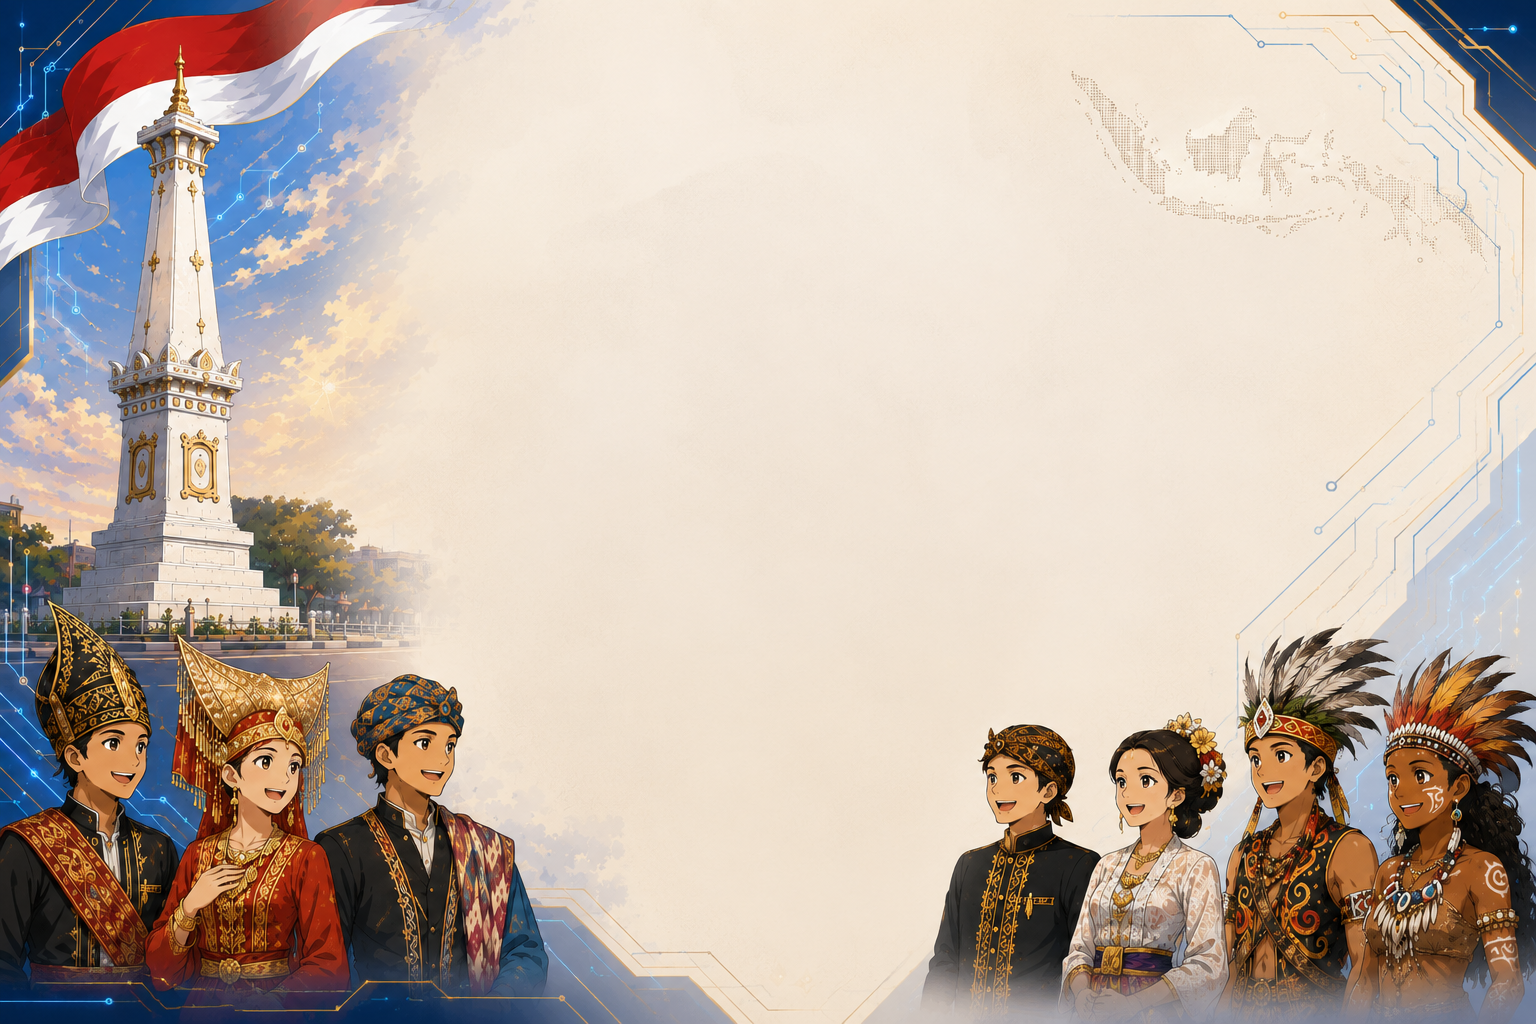
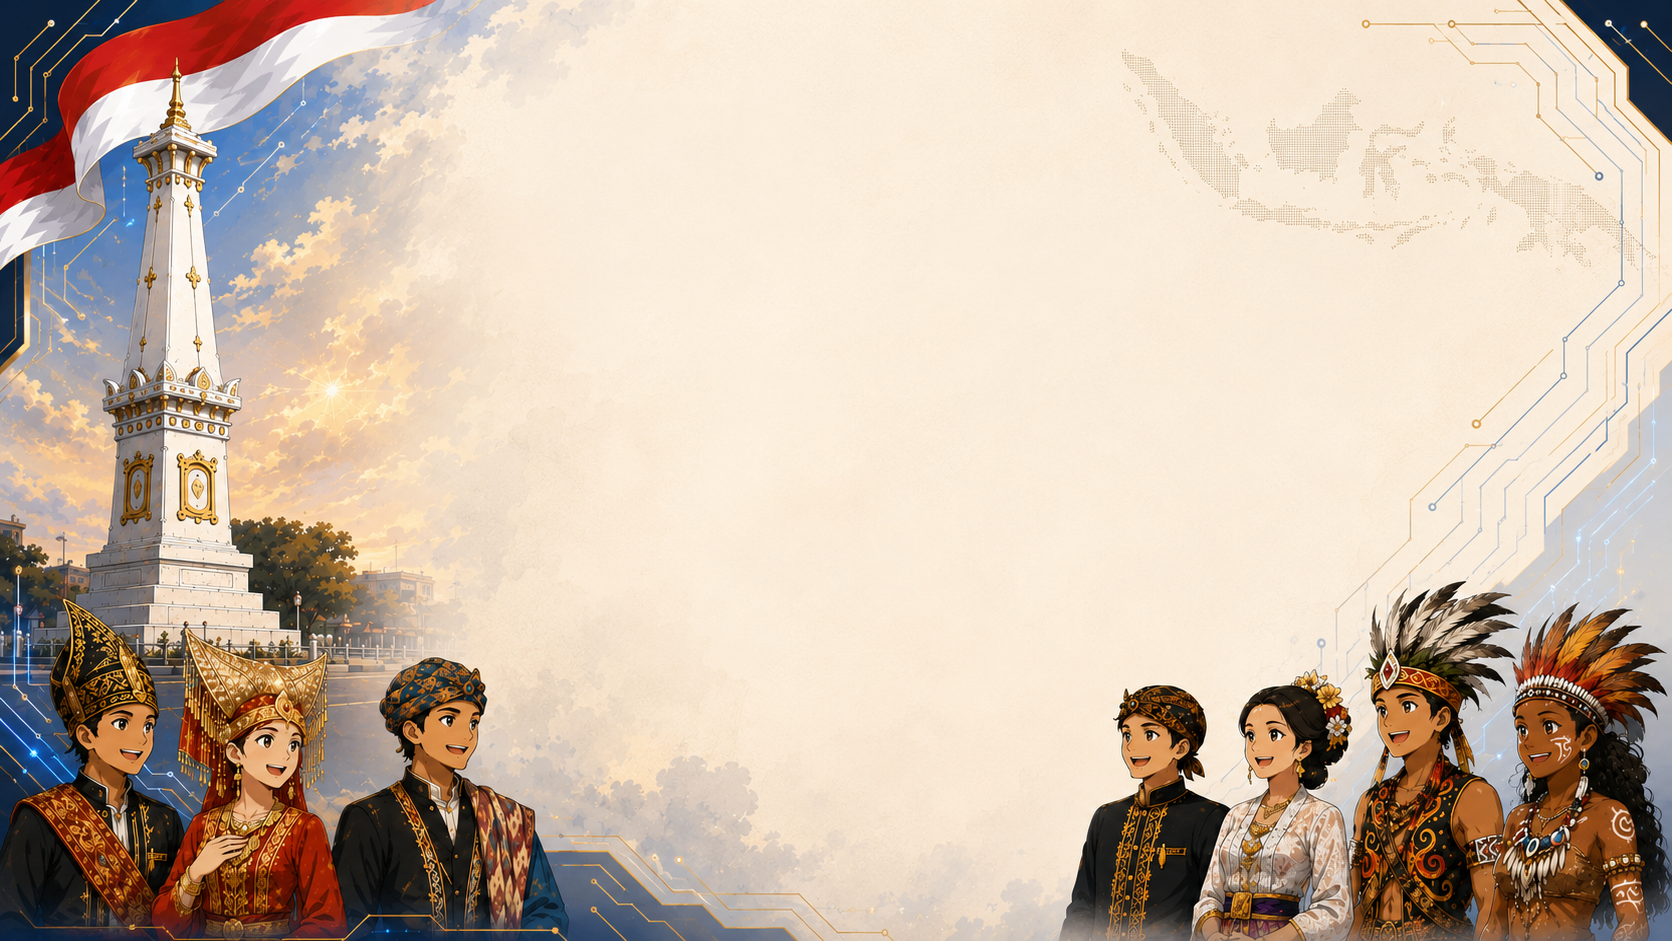
Perbaiki background responsif di ponsel

diff --git a/src/index.css b/src/index.css
@@ -1,3 +1,3 @@
 @import 'tailwindcss';
-.home-hero{min-height:680px;display:grid;place-items:center;background-image:linear-gradient(rgba(250,246,237,.12),rgba(250,246,237,.12)),url('/latar-yogyakarta.png');background-position:center;background-size:cover;background-repeat:no-repeat}.home-hero-content{width:min(700px,100%);margin-top:-30px;padding:2rem;text-align:center;border:1px solid rgba(255,255,255,.66);border-radius:2rem;background:rgba(255,252,245,.72);box-shadow:0 24px 80px rgba(13,44,82,.13);backdrop-filter:blur(7px)}@media(max-width:640px){.home-hero{min-height:720px;background-position:center top}.home-hero-content{margin-top:-60px;padding:1.5rem;background:rgba(255,252,245,.84)}}
+.home-hero{min-height:680px;display:grid;place-items:center;background-color:#faf3e8;background-image:linear-gradient(rgba(250,246,237,.08),rgba(250,246,237,.08)),url('/latar-yogyakarta.png');background-position:center;background-size:cover;background-repeat:no-repeat}.home-hero-content{width:min(700px,100%);padding:2rem;text-align:center;border:1px solid rgba(255,255,255,.7);border-radius:2rem;background:rgba(255,252,245,.76);box-shadow:0 24px 80px rgba(13,44,82,.13);backdrop-filter:blur(7px)}@media(max-width:767px){.home-hero{display:block;min-height:0;padding-top:56.3vw!important;padding-left:1rem!important;padding-right:1rem!important;padding-bottom:1.5rem;background-image:url('/latar-yogyakarta.png');background-position:center top;background-size:100% auto}.home-hero-content{width:100%;padding:1.5rem 1.1rem;border-radius:1.5rem;background:rgba(255,252,245,.96);box-shadow:0 12px 35px rgba(13,44,82,.12);backdrop-filter:none}.home-hero-content h1{font-size:2.35rem}.home-hero-content p{line-height:1.65}}
 :root{font-family:Inter,ui-sans-serif,system-ui,sans-serif;color:#172033;background:#f7f4ec;font-synthesis:none}*{box-sizing:border-box}body{margin:0;min-width:320px;min-height:100vh}button,input,select{font:inherit}.bg-connect{background-color:#f8f5ed;background-image:radial-gradient(circle at 15% 10%,rgba(198,161,74,.18),transparent 25%),radial-gradient(circle at 90% 25%,rgba(14,44,82,.11),transparent 30%)}.card{background:rgba(255,255,255,.9);border:1px solid rgba(255,255,255,.8);box-shadow:0 22px 70px rgba(13,39,73,.11);border-radius:1.5rem}.btn{display:inline-flex;align-items:center;justify-content:center;gap:.5rem;border-radius:999px;padding:.8rem 1.25rem;font-weight:700;transition:.2s;cursor:pointer}.btn-primary{background:#0d2c52;color:white}.btn-primary:hover{background:#163d6b;transform:translateY(-1px)}.btn-secondary{background:#fff;color:#0d2c52;border:1px solid #d8dee7}.field{width:100%;border:1px solid #cad2de;background:white;border-radius:.85rem;padding:.8rem 1rem;outline:none}.field:focus{border-color:#b48a31;box-shadow:0 0 0 3px rgba(180,138,49,.14)}.label{display:block;font-size:.86rem;font-weight:700;color:#334155;margin-bottom:.4rem}